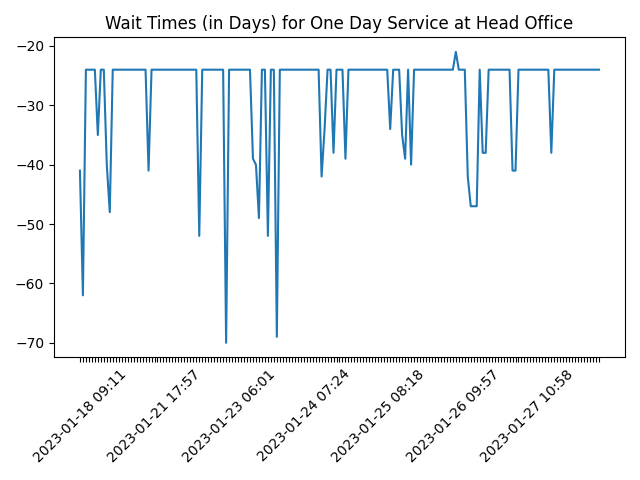
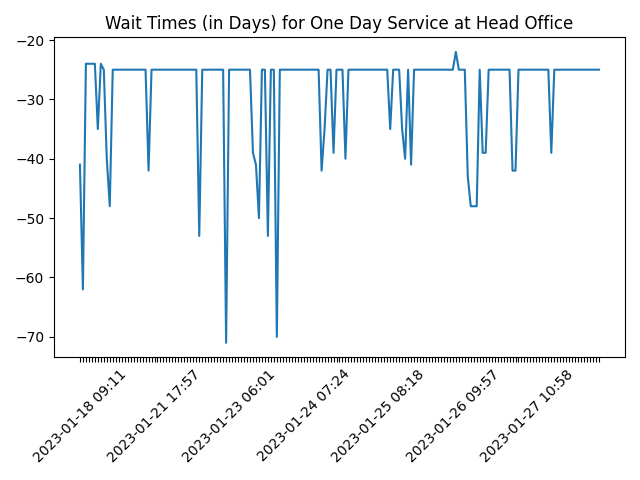
Updated data Tue Apr  4 06:28:10 UTC 2023

diff --git a/README.md b/README.md
@@ -1,5 +1,5 @@
 # Passport Application Reservation System - Availability Report
 
-*As of April 04, 2023 (06:10 AM)*
+*As of April 04, 2023 (11:58 AM)*
 
 Data Source: [Passport Application Reservation System](https://eservices.immigration.gov.lk:8443/appointment/pages/reservationApplication.xhtml)

diff --git a/summary.md b/summary.md
@@ -2,7 +2,7 @@
 
 Of the data from the Passport Application Reservation System of the Sri Lanka Department of Immigration and Emigration.
 
-*As of 2023-04-04 06:10:12*
+*As of 2023-04-04 11:58:08*
 
 ![Wait Time Chart](summary.wait_time_chart.png)
 
